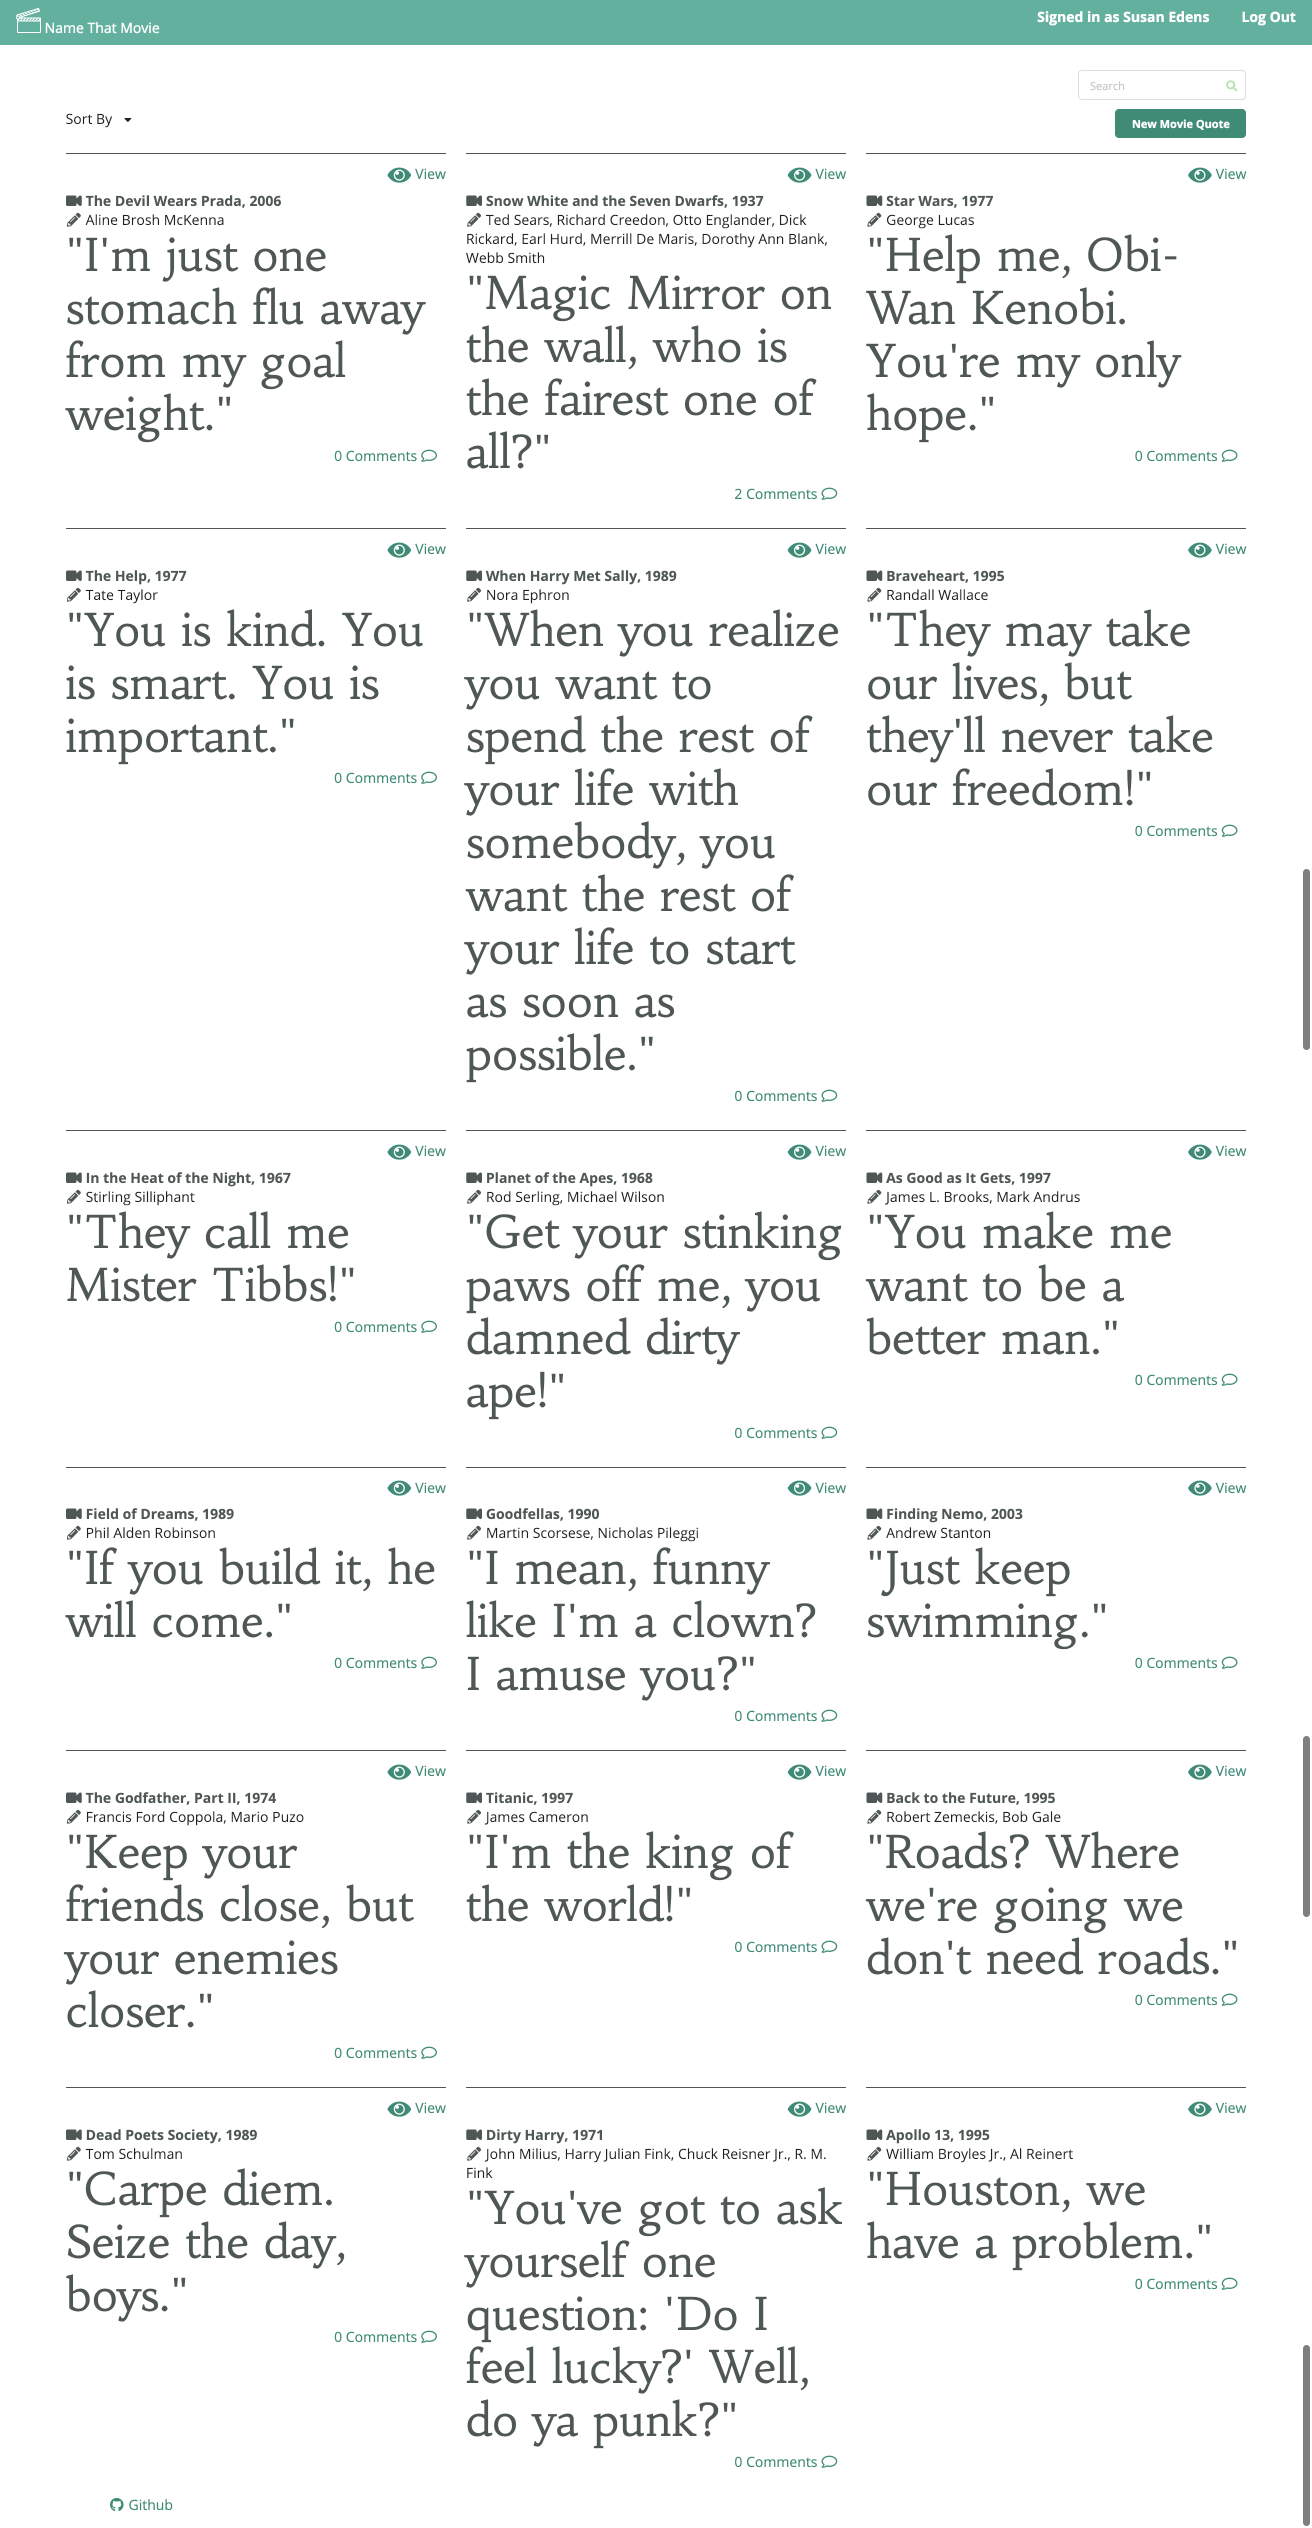
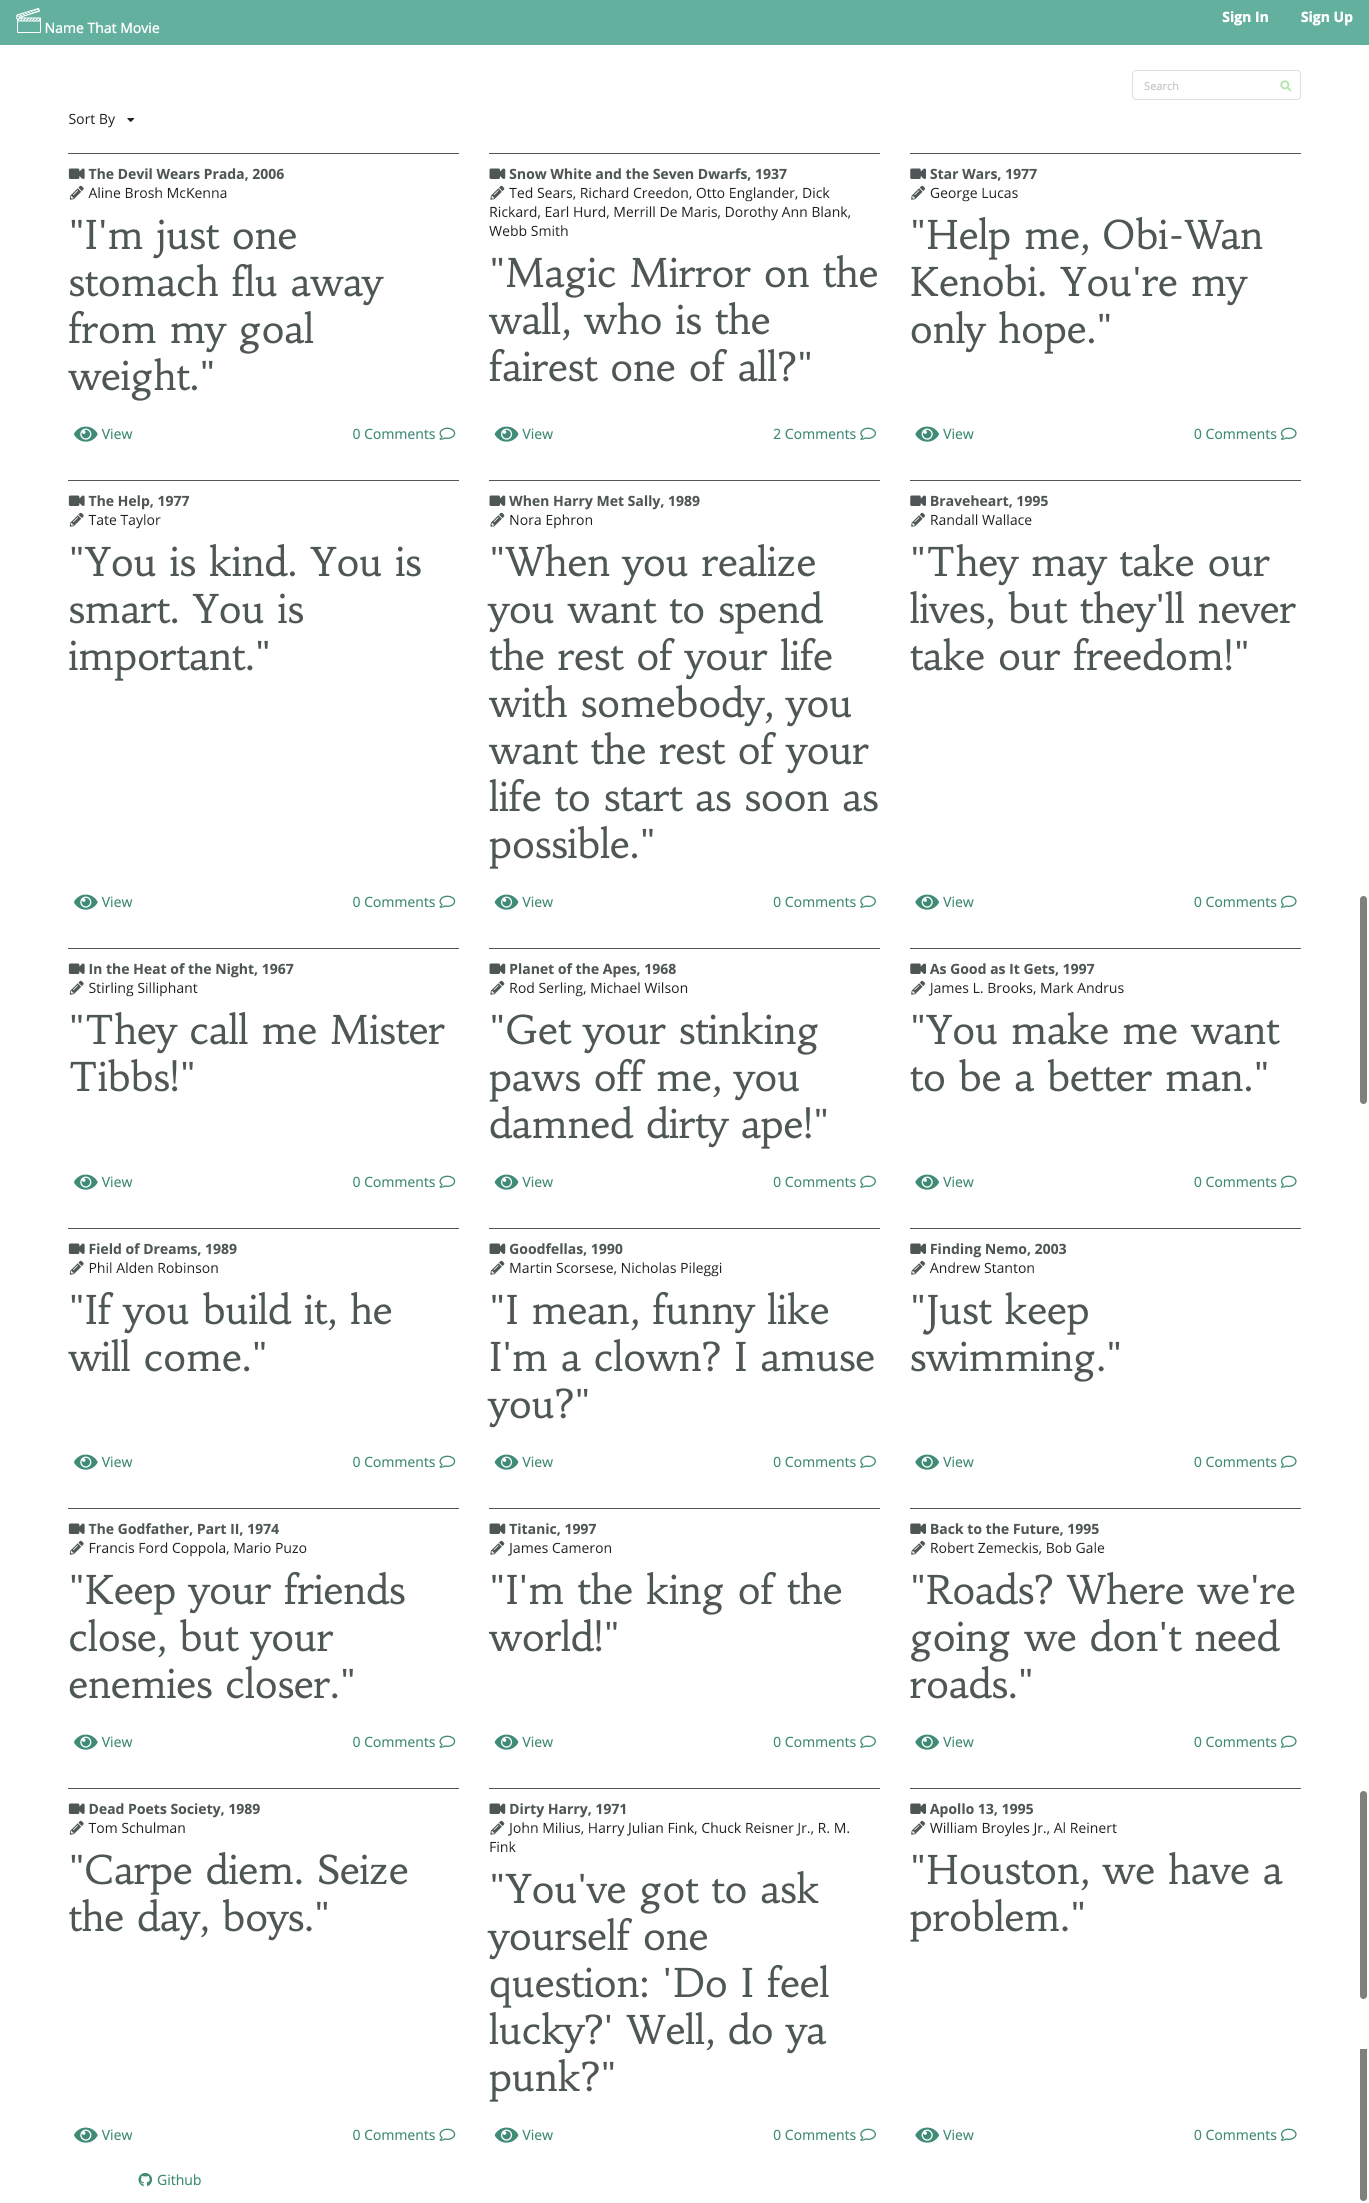
Minor updates to movie quote collection UI style

diff --git a/public/stylesheets/style.css b/public/stylesheets/style.css
@@ -147,7 +147,7 @@
 }
 
 .moviequotemedium {
-  font: 3.2em 'Habibi', serif;
+  font: 2.8em 'Habibi', serif;
   line-height: 1.2em;
 }
 
@@ -276,7 +276,7 @@
   display: grid;
   grid-template-columns: repeat(auto-fill, minmax(300px, 1fr));
   grid-template-rows: auto;
-  grid-gap: 20px;
+  grid-gap: 30px;
   grid-auto-flow: dense;
   place-items: stretch stretch;
   justify-content: space-between;
@@ -291,6 +291,8 @@
   border-color: var(--darkgrey);
   border-top-style: solid;
   border-width: 1px;
+  position: relative;
+  padding-bottom: 50px;
 }
 
 .movie-year {
@@ -304,9 +306,10 @@
 
 .commentblock {
   display: flex;
-  justify-content: flex-end;
   padding: 5px;
-  align-self: flex-end;
+  position: absolute;
+  bottom: 0;
+  width: 100%;
 }
 
 /* ---------------- */
